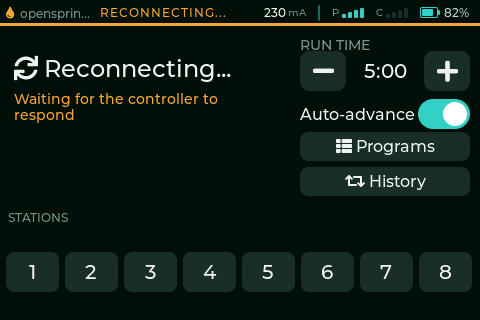
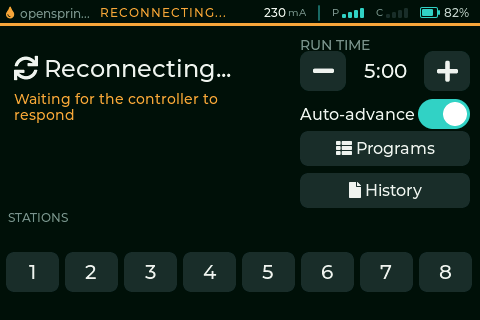
#127 History PR1 refinements: Manual tag, FILE glyph, taller nav buttons
R1: Replace the manual-run droplet tint with a compact "Manual" tag after the
station name. Manual rows keep the teal droplet (same as program runs) and
append a muted bullet+Manual tag in a fixed right-of-name column; the name is
narrowed and single-line-ellipsized so it never collides with the tag. Added a
longish manual-name fixture to demo the tag+ellipsis interaction.

R2: History nav button glyph LV_SYMBOL_LOOP -> LV_SYMBOL_FILE (Programs stays
LV_SYMBOL_LIST) so the two read as distinct log vs list. Updated the comment.

R3: Nav buttons grown 29->35px (+6 each), gap 6->7. The right panel is already
flush to the STATIONS grid so it cannot grow downward; the two buttons now fill
the full nav band (94..171) by overlapping the 10px bottom pad. Stepper and
auto-advance spacing unchanged (kept legible).

Re-rendered all sim states. Native 191/191 green. cyd-35r flash 1470009 ->
1473209 (+3200, +0.16%). include/lv_conf.h byte-identical; nothing vendored.

Copilot-Session: e9242aba-b524-48da-8bd5-a10cf8c2ef23

Changed region(s): [[0.625, 0.4062, 1.0, 0.6562]]

diff --git a/lib/ui/panel_screen.cpp b/lib/ui/panel_screen.cpp
@@ -289,14 +289,21 @@ PanelScreen build_panel_screen(lv_obj_t* scr, const Callbacks& cbs) {
         // Programs + History entry buttons, stacked in the space below the
         // Auto-advance row. Both share the same width/style/height so the right
         // column reads as one family; a leading glyph names the screen each
-        // opens (list -> programs, loop -> history). Text uses CLR_TEXT like the
+        // opens (list -> programs, file -> history). Text uses CLR_TEXT like the
         // other secondary buttons rather than a teal accent.
-        static constexpr int NAV_BTN2_H  = 29;  // shared nav-button height
-        static constexpr int NAV_BTN2_G  = 6;   // gap between the two buttons
-        static constexpr int PANEL_USABLE_H = CONTENT_H - (2 * PANEL_PAD);
-        const int nav_top   = AA_Y + AA_H;                     // below auto-adv
-        const int nav_space = PANEL_USABLE_H - nav_top;        // remaining band
-        const int nav_block = 2 * NAV_BTN2_H + NAV_BTN2_G;     // both + gap
+        //
+        // The right panel is already flush to the STATIONS grid (its bottom edge
+        // == grid top) so it cannot grow downward; instead the buttons fill the
+        // full nav band from just below auto-advance down to the panel's inner
+        // bottom edge, overlapping the 10px bottom pad (same bg) to reclaim it.
+        // This grows each button 29->35px (+6) vs the initial #127 layout while
+        // leaving the stepper + auto-advance at their current legible spacing.
+        static constexpr int NAV_BTN2_H  = 35;  // shared nav-button height
+        static constexpr int NAV_BTN2_G  = 7;   // gap between the two buttons
+        const int nav_top    = AA_Y + AA_H;             // below auto-adv (=94)
+        const int nav_bottom = CONTENT_H - PANEL_PAD;   // overlap bottom pad (=171)
+        const int nav_space  = nav_bottom - nav_top;    // usable band (=77)
+        const int nav_block  = 2 * NAV_BTN2_H + NAV_BTN2_G;  // both + gap
         int prog_btn_y = nav_top + (nav_space - nav_block) / 2;
         if (prog_btn_y < nav_top) prog_btn_y = nav_top;
         const int hist_btn_y = prog_btn_y + NAV_BTN2_H + NAV_BTN2_G;
@@ -308,7 +315,7 @@ PanelScreen build_panel_screen(lv_obj_t* scr, const Callbacks& cbs) {
         if (cbs.on_open_programs)
             lv_obj_add_event_cb(ps.btn_programs, cbs.on_open_programs, LV_EVENT_CLICKED, nullptr);
 
-        ps.btn_history = make_btn(pnl, LV_SYMBOL_LOOP " History",
+        ps.btn_history = make_btn(pnl, LV_SYMBOL_FILE " History",
                                   CLR_LINE, CLR_TEXT, &lv_font_montserrat_16, 8);
         lv_obj_set_size(ps.btn_history, PANEL_CONTENT_W, NAV_BTN2_H);
         lv_obj_align(ps.btn_history, LV_ALIGN_TOP_LEFT, 0, hist_btn_y);
@@ -630,17 +637,6 @@ PanelScreen build_panel_screen(lv_obj_t* scr, const Callbacks& cbs) {
     static constexpr int HIST_PAGER_CY = HIST_ROWS_BOTTOM +
                                          (PROG_LIST_H - HIST_ROWS_BOTTOM) / 2;
     static constexpr int HIST_DOT_Y  = HIST_PAGER_CY - PROG_DOT_H / 2;
-    // Row content geometry. Duration + timestamp are right-aligned in a fixed
-    // right zone; icon + name are left-aligned; the name flexes and ellipsizes.
-    static constexpr int HIST_ICON_X = 10;
-    static constexpr int HIST_NAME_X = 36;
-    static constexpr int HIST_RP     = 10;  // right inset from row edge
-    static constexpr int HIST_WHEN_W = 96;  // timestamp column width
-    static constexpr int HIST_DUR_W  = 52;  // duration column width
-    static constexpr int HIST_COL_G  = 6;   // gap between duration + timestamp
-    static constexpr int HIST_NAME_W =
-        SCREEN_W - HIST_NAME_X -
-        (HIST_RP + HIST_WHEN_W + HIST_COL_G + HIST_DUR_W + 8);
 
     ps.pnl_history = lv_obj_create(scr);
     lv_obj_set_size(ps.pnl_history, SCREEN_W, PROG_LIST_H);
@@ -707,10 +703,24 @@ PanelScreen build_panel_screen(lv_obj_t* scr, const Callbacks& cbs) {
         ps.hist_row_name[r] = lv_label_create(ps.hist_rows[r]);
         lv_label_set_text(ps.hist_row_name[r], "");
         lv_obj_set_width(ps.hist_row_name[r], HIST_NAME_W);
+        // Constrain to one line so LONG_DOT ellipsizes instead of wrapping when
+        // the name is narrowed (e.g. manual rows that reserve room for the tag).
+        lv_obj_set_height(ps.hist_row_name[r],
+                          lv_font_get_line_height(&lv_font_montserrat_16));
         lv_label_set_long_mode(ps.hist_row_name[r], LV_LABEL_LONG_DOT);
         lv_obj_set_style_text_font(ps.hist_row_name[r], &lv_font_montserrat_16, 0);
         lv_obj_set_style_text_color(ps.hist_row_name[r], hex_color(CLR_TEXT), 0);
         lv_obj_align(ps.hist_row_name[r], LV_ALIGN_LEFT_MID, HIST_NAME_X, 0);
+
+        // Trailing "Manual" tag (shown only on manual-run rows). Muted, smaller
+        // font, at a fixed x just past the narrowed name column so it reads as a
+        // label on the row without colliding with the duration zone.
+        ps.hist_row_tag[r] = lv_label_create(ps.hist_rows[r]);
+        lv_label_set_text(ps.hist_row_tag[r], LV_SYMBOL_BULLET " Manual");
+        lv_obj_set_style_text_font(ps.hist_row_tag[r], &lv_font_montserrat_12, 0);
+        lv_obj_set_style_text_color(ps.hist_row_tag[r], hex_color(CLR_MUTED), 0);
+        lv_obj_align(ps.hist_row_tag[r], LV_ALIGN_LEFT_MID, HIST_TAG_X, 0);
+        lv_obj_add_flag(ps.hist_row_tag[r], LV_OBJ_FLAG_HIDDEN);
 
         // Duration (right-aligned column).
         ps.hist_row_dur[r] = lv_label_create(ps.hist_rows[r]);
@@ -1256,9 +1266,9 @@ void update_panel_screen(PanelScreen& ps,
                     case HistoryEntry::ProgramRun:
                         icon = LV_SYMBOL_TINT; icon_col = CLR_TEAL; break;
                     case HistoryEntry::ManualRun:
-                        // Droplet in a distinct (lighter) tint so a manual run
-                        // reads differently from a scheduled program run.
-                        icon = LV_SYMBOL_TINT; icon_col = CLR_LEDE; break;
+                        // Manual runs keep the teal droplet (same as a program
+                        // run) but get a trailing "Manual" tag, set below.
+                        icon = LV_SYMBOL_TINT; icon_col = CLR_TEAL; break;
                     case HistoryEntry::RunOnce:
                         icon = LV_SYMBOL_LOOP; icon_col = CLR_TEAL; break;
                     case HistoryEntry::RainDelay:
@@ -1272,6 +1282,14 @@ void update_panel_screen(PanelScreen& ps,
 
                 lv_label_set_text(ps.hist_row_icon[r], icon);
                 lv_obj_set_style_text_color(ps.hist_row_icon[r], hex_color(icon_col), 0);
+
+                // Manual-run tag: narrow the name column so the "Manual" tag
+                // (fixed x) never collides with the name; the name ellipsizes
+                // first when it is long.
+                const bool manual = (e.kind == HistoryEntry::ManualRun);
+                lv_obj_set_width(ps.hist_row_name[r],
+                                 manual ? HIST_NAME_W_TAG : HIST_NAME_W);
+                obj_set_hidden(ps.hist_row_tag[r], !manual);
                 lv_label_set_text(ps.hist_row_name[r], e.name ? e.name : "");
                 lv_obj_set_style_text_color(ps.hist_row_name[r], hex_color(name_col), 0);
 

diff --git a/lib/ui/ui_layout.h b/lib/ui/ui_layout.h
@@ -48,3 +48,21 @@ static constexpr int MAX_QROWS      = 9;  // visible program-queue rows
 // #127 History overlay: compact single-line rows, ~7 per page (vs 4 programs).
 static constexpr int MAX_HIST_ROWS  = 7;  // history rows per page
 static constexpr int MAX_HIST_PAGES = 6;  // history pager dot capacity
+
+// #127 History row content geometry (shared by the build + per-frame update so
+// the update can narrow the name column on manual-run rows to fit the tag).
+static constexpr int HIST_ICON_X = 10;  // leading kind glyph x
+static constexpr int HIST_NAME_X = 36;  // name column x
+static constexpr int HIST_RP     = 10;  // right inset from row edge
+static constexpr int HIST_WHEN_W = 96;  // timestamp column width
+static constexpr int HIST_DUR_W  = 52;  // duration column width
+static constexpr int HIST_COL_G  = 6;   // gap between duration + timestamp
+static constexpr int HIST_TAG_W  = 66;  // "Manual" tag column width
+static constexpr int HIST_TAG_G  = 6;   // gap between name and tag
+static constexpr int HIST_NAME_W =
+    SCREEN_W - HIST_NAME_X -
+    (HIST_RP + HIST_WHEN_W + HIST_COL_G + HIST_DUR_W + 8);
+// Narrowed name width on manual rows (leaves room for the trailing tag), and
+// the fixed x where that tag sits (just past the narrowed name).
+static constexpr int HIST_NAME_W_TAG = HIST_NAME_W - HIST_TAG_W - HIST_TAG_G;
+static constexpr int HIST_TAG_X = HIST_NAME_X + HIST_NAME_W_TAG + HIST_TAG_G;

diff --git a/sim/fixtures.cpp b/sim/fixtures.cpp
@@ -165,7 +165,7 @@ Fixture make_fixture(const std::string& state) {
             {"Back Lawn",   600, "Today 6:22a", HE::ProgramRun},
             {"Rose Bed",    300, "Today 6:12a", HE::ProgramRun},
             {"Garden Drip", 900, "Today 6:00a", HE::ProgramRun},
-            {"Patio Pots",  120, "Today 5:45a", HE::ManualRun},
+            {"Backyard Vegetable Garden Beds", 120, "Today 5:45a", HE::ManualRun},
             {"Veggie Beds", 480, "Today 5:30a", HE::RunOnce},
             {"Side Yard",   300, "Tue 8:15p",   HE::ProgramRun},
             {"Front Lawn",  600, "Tue 6:32a",   HE::ProgramRun},

diff --git a/lib/ui/panel_screen.h b/lib/ui/panel_screen.h
@@ -137,6 +137,7 @@ struct PanelScreen {
     lv_obj_t* hist_rows[MAX_HIST_ROWS]              = {};
     lv_obj_t* hist_row_icon[MAX_HIST_ROWS]          = {};
     lv_obj_t* hist_row_name[MAX_HIST_ROWS]          = {};
+    lv_obj_t* hist_row_tag[MAX_HIST_ROWS]           = {};
     lv_obj_t* hist_row_dur[MAX_HIST_ROWS]           = {};
     lv_obj_t* hist_row_when[MAX_HIST_ROWS]          = {};
     lv_obj_t* hist_page_dots[MAX_HIST_PAGES]        = {};
